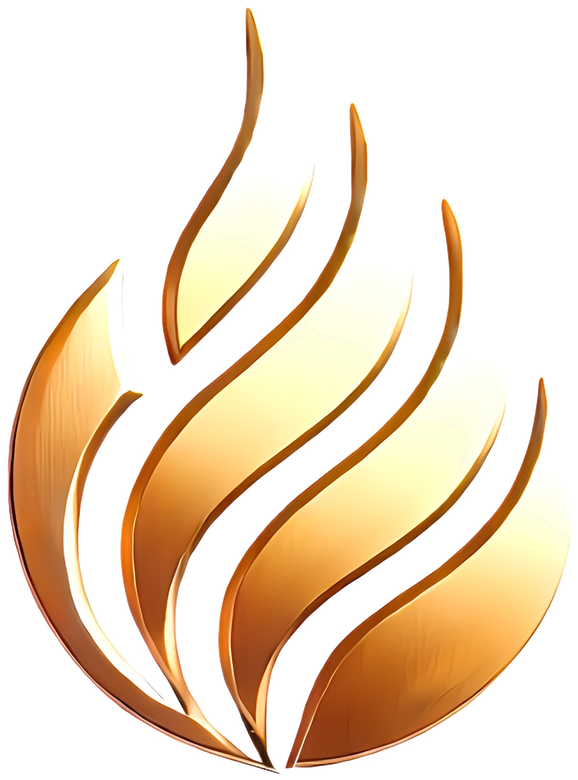
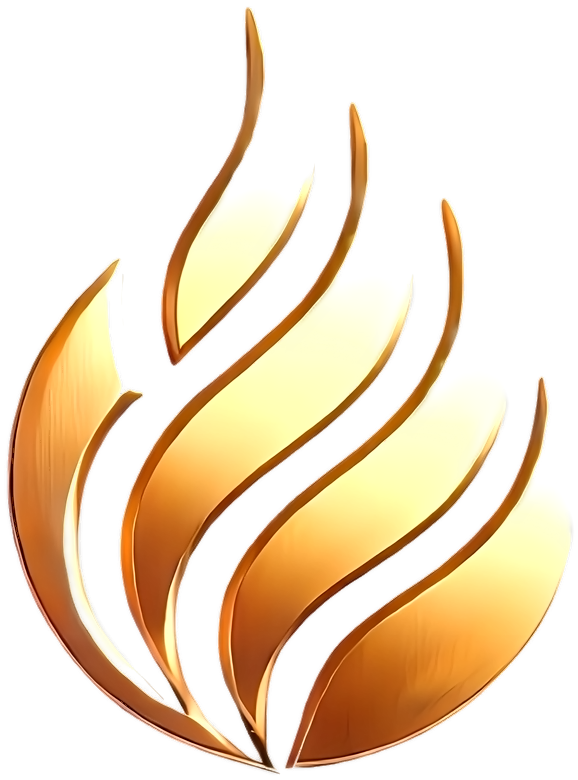
feat: restore the flame mark to a pristine, consistent polished gold
Conservation-style restoration of the gold flame artwork, geometry
untouched: the chalky gray matte fringe along every edge is replaced by
color pulled from the nearest solid interior; every gray and chrome
discoloration is re-tinted onto the warm gold axis with luminance
preserved; a warm white point turns the cool highlight sweeps to
champagne; hues are clamped into the warm band; chroma mottling is
smoothed while luminance detail is kept; the dithered glow fades are
silked into smooth gradients and their muddy semi-transparent tails
trimmed; and a gentle grade deepens the ambers and brightens the
champagne. The line-fire mask is regenerated from the restored artwork
with the full established recipe, end gains, escape plumes, and border
taper.

Verified on-page at both render sizes: fire motion at the ends is
unchanged or better (right 12 percent density 0.68), no boundary line,
421 tests passing, analyzer and format clean.

Claude-Session: https://claude.ai/code/session_012PX7zNEHgTtrYdjiWdwYg1

diff --git a/demo/flutter_bootstrap.js b/demo/flutter_bootstrap.js
@@ -42,6 +42,6 @@ _flutter.buildConfig = {"engineRevision":"a804b261645ef8c13eb3d5c44a5c2fb0340c55
 
 _flutter.loader.load({
   serviceWorkerSettings: {
-    serviceWorkerVersion: "1581110527" /* Flutter's service worker is deprecated and will be removed in a future Flutter release. */
+    serviceWorkerVersion: "1035916941" /* Flutter's service worker is deprecated and will be removed in a future Flutter release. */
   }
 });
